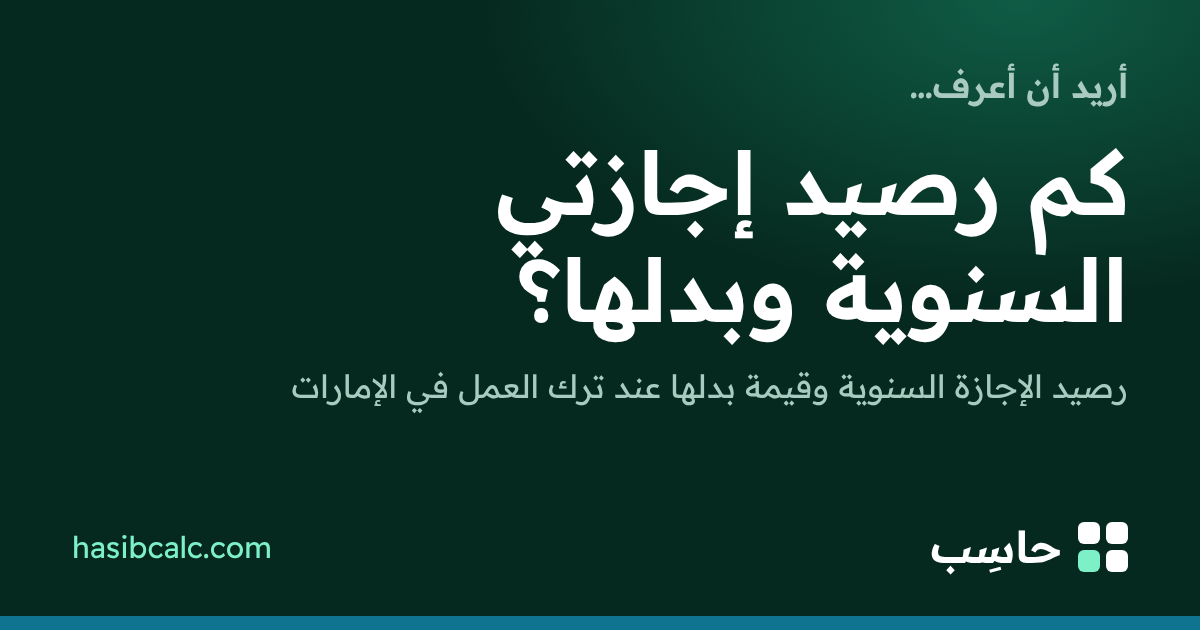
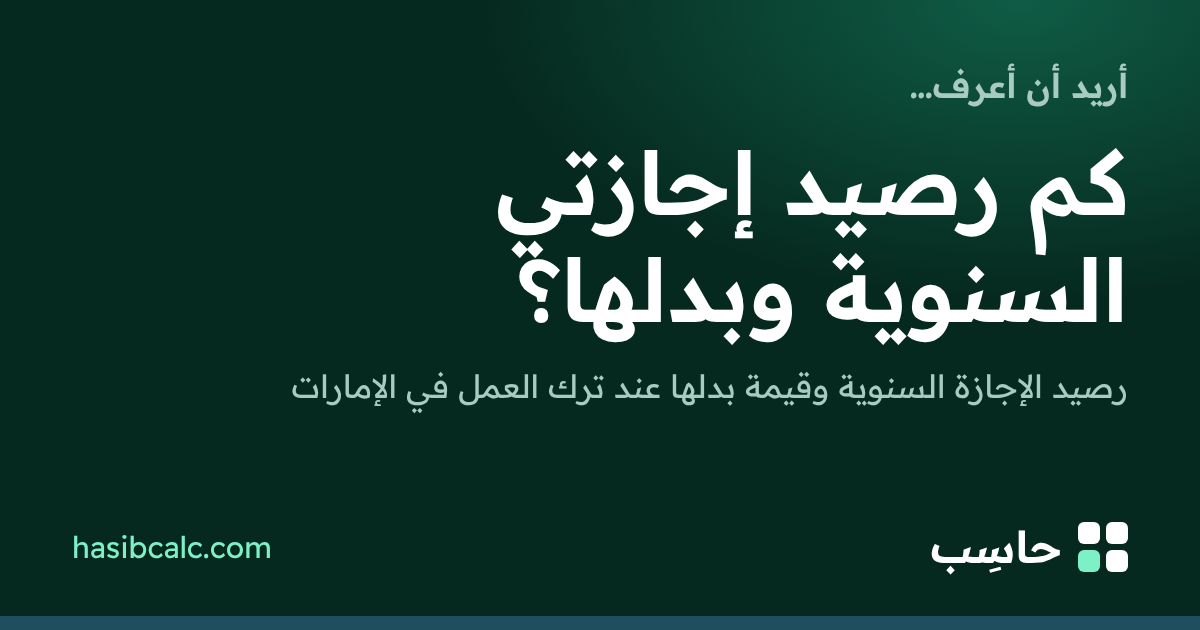
حاسبة «مستحقات ترك العمل» (نهاية الخدمة وبدل الإجازة)، وهوية بصرية جديدة «دفتر الحسابات»
Claude-Session: https://claude.ai/code/session_01KKyL8svfUUTjcLXAGNStGe

Changed region(s): [[0.0, 0.9651, 1.0, 1.0]]

diff --git a/src/data/calculators.ts b/src/data/calculators.ts
@@ -27,13 +27,13 @@ export const CALCULATORS: CalculatorMeta[] = [
     question: 'كم مكافأة نهاية خدمتي؟',
     short: 'نهاية الخدمة',
     blurb: '21 يوماً ثم 30 يوماً عن كل سنة، وفق المادة 51',
-    tone: '#0f6b52',
+    tone: '#8a2f1a',
     sample: '49,194',
     seoTitle: 'حساب نهاية الخدمة في القطاع الخاص بالإمارات: حاسبة المكافأة 2026',
     description: 'احسب مكافأة نهاية الخدمة في القطاع الخاص بالإمارات وفق المادة 51: 21 يوماً عن أول 5 سنوات و30 يوماً بعدها على الراتب الأساسي، مع مثال وجدول جاهز.',
     categories: ['money'],
     terms: ['نهاية الخدمة', 'مكافأة', 'المكافأة', 'استقالة', 'قانون العمل', 'الإمارات', 'راتب أساسي', 'gratuity'],
-    related: ['annual-leave', 'loan', 'zakat', 'percentage'],
+    related: ['exit-dues', 'annual-leave', 'loan', 'zakat'],
     updated: '2026-10-28',
   },
   {
@@ -41,21 +41,35 @@ export const CALCULATORS: CalculatorMeta[] = [
     question: 'كم رصيد إجازتي السنوية وبدلها؟',
     short: 'بدل الإجازة',
     blurb: 'رصيد الإجازة السنوية وقيمة بدلها عند ترك العمل في الإمارات',
-    tone: '#0e7490',
+    tone: '#1f4e5f',
     sample: '8,000',
     seoTitle: 'حاسبة الإجازة السنوية وبدلها في الإمارات (القطاع الخاص)',
     description: 'احسب رصيد إجازتك السنوية وقيمة بدل الأيام غير المستخدمة عند ترك العمل وفق قانون العمل الإماراتي: 30 يوماً في السنة، ويومان عن كل شهر في السنة الأولى، على الراتب الأساسي.',
     categories: ['money'],
     terms: ['الإجازة السنوية', 'بدل الإجازة', 'رصيد الإجازة', 'إجازة', 'قانون العمل', 'الإمارات', 'نهاية الخدمة', 'استقالة', 'leave salary'],
-    related: ['end-of-service', 'salary-uae', 'days-between', 'gosi'],
+    related: ['exit-dues', 'end-of-service', 'salary-uae', 'gosi'],
     updated: '2026-10-25',
+  },
+  {
+    slug: 'exit-dues',
+    question: 'كم مستحقاتي كاملة عند ترك العمل؟',
+    short: 'مستحقات ترك العمل',
+    blurb: 'مكافأة نهاية الخدمة وبدل الإجازة معاً في رقم واحد',
+    tone: '#2b3a67',
+    sample: '60,043',
+    seoTitle: 'حاسبة مستحقات ترك العمل في الإمارات: نهاية الخدمة وبدل الإجازة',
+    description: 'احسب مستحقاتك عند ترك العمل في القطاع الخاص بالإمارات: مكافأة نهاية الخدمة وبدل الإجازة السنوية غير المستخدمة معاً على الراتب الأساسي، بأمثلة ومصادر رسمية.',
+    categories: ['money'],
+    terms: ['مستحقات', 'ترك العمل', 'استقالة', 'نهاية الخدمة', 'بدل الإجازة', 'تصفية', 'مخالصة', 'قانون العمل', 'الإمارات', 'final settlement'],
+    related: ['end-of-service', 'annual-leave', 'salary-uae', 'days-between'],
+    updated: '2026-11-04',
   },
   {
     slug: 'vat',
     question: 'كم الضريبة على هذا المبلغ؟',
     short: 'ضريبة القيمة المضافة',
     blurb: 'أضف 5% إلى السعر أو استخرجها منه',
-    tone: '#4b4bd6',
+    tone: '#6b4a14',
     sample: '50.00',
     seoTitle: 'حاسبة ضريبة القيمة المضافة 5%: إضافة واستخراج',
     description: 'أضف ضريبة القيمة المضافة إلى السعر أو استخرجها من سعر شامل، بنسبة 5% الإماراتية أو أي نسبة أخرى، مع شرح الفرق بين الطريقتين.',
@@ -69,7 +83,7 @@ export const CALCULATORS: CalculatorMeta[] = [
     question: 'كم قسطي الشهري؟',
     short: 'القسط الشهري',
     blurb: 'فائدة ثابتة أو متناقصة، مع جدول السداد',
-    tone: '#cf3f20',
+    tone: '#3d4a2a',
     sample: '2,280',
     seoTitle: 'حاسبة القرض والقسط الشهري: الفرق بين الفائدة الثابتة والمتناقصة',
     description: 'احسب القسط الشهري لقرض شخصي أو تمويل سيارة أو عقار، وقارن بين الفائدة الثابتة والمتناقصة، مع جدول توزيع الأصل والفائدة.',
@@ -83,7 +97,7 @@ export const CALCULATORS: CalculatorMeta[] = [
     question: 'كم تساوي النسبة؟',
     short: 'النسبة المئوية',
     blurb: 'نسبة من رقم، ونسبة رقم لآخر، ونسبة التغير',
-    tone: '#2f6fd6',
+    tone: '#6b2d4a',
     sample: '100',
     seoTitle: 'حاسبة النسبة المئوية: نسبة من رقم، ونسبة رقم لآخر، ونسبة التغير',
     description: 'ثلاث حسبات للنسبة المئوية في صفحة واحدة: كم يساوي 40% من 250، وكم تمثل 40 من 250، ونسبة الزيادة أو النقص بين قيمتين.',
@@ -96,7 +110,7 @@ export const CALCULATORS: CalculatorMeta[] = [
     question: 'كم السعر بعد الخصم؟',
     short: 'الخصم',
     blurb: 'السعر النهائي بعد خصم وخصم إضافي',
-    tone: '#c2410c',
+    tone: '#2b3a67',
     sample: '251.37',
     seoTitle: 'حاسبة الخصم والتخفيض: كم السعر بعد الخصم؟ ونسبة التخفيض الحقيقية',
     description: 'اعرف السعر النهائي بعد الخصم، وكم توفّر، ونسبة الخصم الفعلية عند وجود خصم إضافي فوق الخصم الأول.',
@@ -110,7 +124,7 @@ export const CALCULATORS: CalculatorMeta[] = [
     question: 'كم عمري بالضبط؟',
     short: 'العمر',
     blurb: 'بالسنة والشهر واليوم، والأيام لعيد ميلادك',
-    tone: '#7a4bd6',
+    tone: '#7a3e10',
     sample: '31',
     seoTitle: 'حاسبة العمر: كم عمري بالسنوات والأشهر والأيام؟',
     description: 'احسب عمرك بالضبط بالسنوات والأشهر والأيام، وعدد الأيام التي عشتها، وكم بقي على عيد ميلادك القادم.',
@@ -124,7 +138,7 @@ export const CALCULATORS: CalculatorMeta[] = [
     question: 'هل وزني طبيعي؟',
     short: 'مؤشر كتلة الجسم',
     blurb: 'مؤشر كتلة الجسم ونطاق الوزن لطولك',
-    tone: '#c7305f',
+    tone: '#8a2f1a',
     sample: '24.5',
     seoTitle: 'حاسبة مؤشر كتلة الجسم BMI للبالغين',
     description: 'احسب مؤشر كتلة الجسم من وزنك وطولك، واعرف تصنيفه للبالغين ونطاق الوزن الموافق للنطاق الطبيعي لطولك.',
@@ -137,7 +151,7 @@ export const CALCULATORS: CalculatorMeta[] = [
     question: 'كم زكاة مالي؟',
     short: 'زكاة المال',
     blurb: 'ربع العشر بعد خصم الديون وحساب النصاب',
-    tone: '#a86600',
+    tone: '#1f4e5f',
     sample: '1,875',
     seoTitle: 'حاسبة زكاة المال: كم زكاتي ونصاب الذهب اليوم؟',
     description: 'احسب زكاة المال على النقد والمدخرات والاستثمارات بعد خصم الديون، مع طريقة حساب زكاة المال خطوة بخطوة: النصاب بسعر الذهب ثم ربع العشر 2.5%.',
@@ -151,7 +165,7 @@ export const CALCULATORS: CalculatorMeta[] = [
     question: 'كم التاريخ بالهجري؟',
     short: 'تحويل التاريخ',
     blurb: 'من الميلادي إلى الهجري وبالعكس، بتقويم أم القرى',
-    tone: '#0e7490',
+    tone: '#6b4a14',
     sample: '1448',
     seoTitle: `التاريخ الهجري اليوم وتحويل التاريخ: السنة الهجرية ${HIJRI_YEAR_NOW}`,
     description: `كم التاريخ الهجري اليوم؟ السنة الهجرية الحالية ${HIJRI_YEAR_NOW} هـ. حوّل أي تاريخ من الميلادي إلى الهجري أو من الهجري إلى الميلادي بتقويم أم القرى، مع اسم اليوم وعدد أيام الشهر.`,
@@ -165,7 +179,7 @@ export const CALCULATORS: CalculatorMeta[] = [
     question: 'كم عمري بالهجري؟',
     short: 'العمر بالهجري',
     blurb: 'عمرك بالسنين والأشهر الهجرية، وتاريخ ميلادك الهجري',
-    tone: '#7c3aed',
+    tone: '#3d4a2a',
     sample: '32',
     seoTitle: 'حساب العمر بالهجري: كم عمري بالتقويم الهجري؟',
     description: 'احسب عمرك بالسنوات والأشهر والأيام الهجرية بتقويم أم القرى، من تاريخ ميلادك الميلادي أو الهجري، مع تاريخ ميلادك بالهجري وموعد عيد ميلادك الهجري القادم.',
@@ -179,7 +193,7 @@ export const CALCULATORS: CalculatorMeta[] = [
     question: 'كم باقي على الراتب؟',
     short: 'كم باقي على الراتب',
     blurb: 'عدّاد أيام الراتب، مع نقله إذا وافق عطلة',
-    tone: '#15803d',
+    tone: '#6b2d4a',
     sample: '2',
     seoTitle: 'كم باقي على الراتب؟ عدّاد موعد نزول الراتب',
     description: 'كم يوماً باقي على راتبك؟ اختر يوم الراتب ونحسب الموعد القادم، ونقدّمه إذا وافق عطلة نهاية الأسبوع، مع مواعيد الرواتب للأشهر الاثني عشر القادمة.',
@@ -193,7 +207,7 @@ export const CALCULATORS: CalculatorMeta[] = [
     question: 'كم باقي على الراتب في السعودية؟',
     short: 'راتب السعودية',
     blurb: 'يوم 27 للقطاع الحكومي، ويُقدَّم للخميس إذا وافق العطلة',
-    tone: '#166534',
+    tone: '#2b3a67',
     sample: '27',
     seoTitle: 'كم باقي على الراتب في السعودية؟ عدّاد رواتب 27',
     description: 'كم يوماً باقي على راتب يوم 27 في السعودية؟ عدّاد بتاريخ اليوم، مع موعد الراتب إذا وافق الجمعة أو السبت، ومواعيد رواتب الأشهر القادمة.',
@@ -207,7 +221,7 @@ export const CALCULATORS: CalculatorMeta[] = [
     question: 'كم باقي على الراتب في الإمارات؟',
     short: 'راتب الإمارات',
     blurb: 'موعد الأجر في القطاع الخاص حسب نظام حماية الأجور',
-    tone: '#0f766e',
+    tone: '#7a3e10',
     sample: '1',
     seoTitle: 'كم باقي على الراتب في الإمارات؟ موعد الراتب ونظام حماية الأجور',
     description: 'كم يوماً باقي على راتبك في الإمارات؟ في القطاع الخاص يجب أن يُصرف الأجر في موعد أقصاه اليوم الأول من الشهر التالي منذ يونيو 2026. اكتب يوم راتبك واعرف الأيام الباقية.',
@@ -221,7 +235,7 @@ export const CALCULATORS: CalculatorMeta[] = [
     question: 'كم يوماً بين تاريخين؟',
     short: 'الأيام بين تاريخين',
     blurb: 'الأيام والأسابيع والأشهر، وأيام العمل',
-    tone: '#475569',
+    tone: '#8a2f1a',
     sample: '365',
     seoTitle: 'كم يوم بين تاريخين؟ حساب عدد الأيام والأسابيع وأيام العمل',
     description: 'كم يوماً بين تاريخين؟ اكتب التاريخين فتظهر الأيام والأسابيع والأشهر وأيام العمل فوراً، مع التاريخ بعد 30 أو 90 يوماً، وكم سنة في 36 شهراً.',
@@ -235,7 +249,7 @@ export const CALCULATORS: CalculatorMeta[] = [
     question: 'متى موعد ولادتي؟',
     short: 'موعد الولادة',
     blurb: 'موعد الولادة المتوقع وعمر الحمل بالأسابيع',
-    tone: '#a21caf',
+    tone: '#1f4e5f',
     sample: '280',
     seoTitle: 'حاسبة الحمل بالأسابيع والأشهر وموعد الولادة المتوقع',
     description: 'احسبي موعد الولادة المتوقع من أول يوم في آخر دورة، وعمر الحمل بالأسابيع والأيام، والثلث الذي أنتِ فيه، مع مراعاة طول الدورة.',
@@ -249,7 +263,7 @@ export const CALCULATORS: CalculatorMeta[] = [
     question: 'متى موعد التبويض؟',
     short: 'حاسبة التبويض',
     blurb: 'يوم التبويض وأيام الخصوبة وموعد الدورة القادمة',
-    tone: '#be185d',
+    tone: '#6b4a14',
     sample: '14',
     seoTitle: 'حاسبة التبويض وأيام الخصوبة وموعد الدورة القادمة',
     description: 'احسبي يوم التبويض المتوقع وأيام الخصوبة وموعد الدورة الشهرية القادمة من تاريخ آخر دورة وطولها، مع جدول للأشهر الثلاثة القادمة.',
@@ -263,7 +277,7 @@ export const CALCULATORS: CalculatorMeta[] = [
     question: 'كم سعرة يحتاج جسمي يومياً؟',
     short: 'السعرات اليومية',
     blurb: 'احتياجك اليومي بحسب عمرك ووزنك ونشاطك',
-    tone: '#15803d',
+    tone: '#3d4a2a',
     sample: '2,740',
     seoTitle: 'حاسبة السعرات الحرارية اليومية للبالغين',
     description: 'احسب عدد السعرات التي يحتاجها جسمك يومياً للمحافظة على وزنك بمعادلة ميفلين سان جيور، بحسب جنسك وعمرك ووزنك وطولك ومستوى نشاطك.',
@@ -277,7 +291,7 @@ export const CALCULATORS: CalculatorMeta[] = [
     question: 'كم يُخصم من راتبي للتأمينات؟',
     short: 'التأمينات الاجتماعية',
     blurb: 'الخصم من راتبك وراتبك الصافي، بالنظام السابق والجديد',
-    tone: '#3f6212',
+    tone: '#6b2d4a',
     sample: '1,075',
     seoTitle: 'حاسبة الراتب الصافي بعد خصم التأمينات GOSI 2026',
     description: 'احسب راتبك الصافي بعد خصم التأمينات الاجتماعية في السعودية، وكم يُخصم منك وكم يدفع صاحب العمل، بالنظام السابق أو الجديد، للسعودي وغير السعودي.',
@@ -291,7 +305,7 @@ export const CALCULATORS: CalculatorMeta[] = [
     question: 'كم معدلي الجامعي؟',
     short: 'المعدل الجامعي',
     blurb: 'المعدل الفصلي والتراكمي من 5 أو من 4',
-    tone: '#4338ca',
+    tone: '#2b3a67',
     sample: '4.38',
     seoTitle: 'حساب المعدل التراكمي والفصلي للجامعة من 5 ومن 4',
     description: 'احسب معدلك الفصلي والتراكمي في الجامعة بالنظام السعودي من 5 أو من 4، أو بنظام 4 بالسالب في الإمارات، من تقديرات المواد وساعاتها ومعدلك السابق.',
@@ -305,7 +319,7 @@ export const CALCULATORS: CalculatorMeta[] = [
     question: 'كم معدل أحتاج لأرفع معدلي التراكمي؟',
     short: 'المعدل المطلوب',
     blurb: 'المعدل الفصلي اللازم للوصول إلى معدلك المستهدف',
-    tone: '#6d28d9',
+    tone: '#7a3e10',
     sample: '4.60',
     seoTitle: 'حاسبة المعدل المطلوب: كم أحتاج في الفصل القادم لأرفع معدلي التراكمي؟',
     description: 'اكتب معدلك التراكمي وساعاتك والمعدل الذي تريده، ونحسب المعدل الفصلي الذي تحتاجه في الفصل القادم، وهل الهدف ممكن، وأعلى معدل تصل إليه عند التخرج، من 5 أو من 4.',

diff --git a/src/styles/global.css b/src/styles/global.css
@@ -544,3 +544,47 @@ select.in.sel { appearance: none; cursor: pointer; padding: 0 12px 0 30px; font-
 /* add to calendar */
 .addcal { display: flex; flex-wrap: wrap; align-items: center; gap: 8px; margin: 0 0 24px; max-width: var(--measure); }
 .addcal .ac-l { font-size: .88rem; color: var(--soft); }
+
+
+/* ===== هوية «دفتر الحسابات» (نوفمبر 2026) =====
+   ورق كريمي وحبر داكن وطابع أحمر، وخطوط دفتر على خلفية الترويسة، وبطاقات بحواف حادة وظل مطبوع.
+   تُلغى بحذف هذه الكتلة كلها. */
+:root {
+  --deep: #17130e; --em: #241d14; --em-2: #3a2e1c;
+  --mint: #f2c35b; --on-deep: #fbf6ea; --on-deep-soft: #cfc3a6;
+  --paper: #f4eee0; --card: #fffcf3; --ink: #1c1812; --soft: #5a5143;
+  --line: #ded2b8; --well: #efe5cf;
+  --accent: #8f2a14; --accent-bg: #f6e3d6; --warn: #8a4b0a; --warn-bg: #f9ecd2;
+  --r-sm: 6px; --r-md: 8px; --r-lg: 10px; --r-xl: 12px;
+  --shadow-card: 3px 3px 0 rgba(28, 24, 18, .9);
+  --shadow-float: 6px 6px 0 #f2c35b;
+}
+@media (prefers-color-scheme: dark) {
+  :root {
+    --paper: #14110c; --card: #1e1a13; --ink: #f1e8d4; --soft: #b5a88c; --line: #3a3224; --well: #181510;
+    --accent: #f2c35b; --accent-bg: #3a2e14; --warn: #f0b46b; --warn-bg: #2f2010;
+    --shadow-card: 3px 3px 0 rgba(0, 0, 0, .8); --shadow-float: 6px 6px 0 #8f2a14;
+  }
+}
+.stage { background:
+  linear-gradient(90deg, transparent calc(100% - 64px), rgba(190, 52, 28, .55) calc(100% - 64px) calc(100% - 62px), transparent calc(100% - 62px)),
+  repeating-linear-gradient(180deg, transparent 0 31px, rgba(242, 195, 91, .09) 31px 32px), var(--deep); }
+.stage::after { display: none; }
+.machine { border: 2px solid var(--ink); }
+.machine .exhibit { border-radius: 0 0 10px 10px; }
+.tile { border: 2px solid var(--ink); box-shadow: 3px 3px 0 var(--ink); border-radius: 10px; }
+.tile:hover { transform: translate(-2px, -2px); box-shadow: 5px 5px 0 var(--ink); }
+.tile::before, .tile::after { display: none; }
+.odo i { background: rgba(255, 252, 243, .1); border-bottom: 2px solid rgba(242, 195, 91, .55); border-radius: .08em; }
+.odo i.c { background: none; border: 0; }
+.machine-top b::before { background: #be341c; border-radius: 2px; }
+.logo { letter-spacing: .02em; }
+.card, .side-card, .article.card { border: 1.5px solid var(--ink); border-radius: 10px; box-shadow: 3px 3px 0 var(--line); }
+.calc-title .seal { border-color: rgba(242, 195, 91, .6); background: rgba(242, 195, 91, .08); border-radius: 4px; transform: rotate(-1.2deg); }
+.legend .b i, .tl-b, .dlegend span + span i, .split .sb { background: #c94a2b; }
+.legend .a i { background: var(--em-2); }
+@media (max-width: 700px) {
+  .stage { background: repeating-linear-gradient(180deg, transparent 0 31px, rgba(242, 195, 91, .09) 31px 32px), var(--deep); }
+  :root { --shadow-float: 3px 3px 0 #f2c35b; }
+  .machine { margin-inline-end: 4px; }
+}

diff --git a/src/lib/calc/exit-dues.ts b/src/lib/calc/exit-dues.ts
@@ -1,0 +1,29 @@
+import { type CalcResult, fail, ok } from './core';
+import { type Gratuity, calcGratuity } from './gratuity';
+import { type Leave, calcLeave } from './annual-leave';
+
+/**
+ * UAE private-sector dues on leaving a job: end-of-service gratuity + cash value of unused annual leave.
+ * Both parts are computed by the existing calculators, so the rules and their sources are exactly theirs:
+ *  - gratuity: Federal Decree-Law No. 33 of 2021, Article 51 (u.ae);
+ *  - annual leave: Article 29 (u.ae), 30 days a year, paid on the basic wage, daily wage = basic ÷ 30.
+ * Not included on purpose: last month's wage, notice pay, tickets and overtime, which depend on the contract.
+ */
+export type DuesInput = {
+  basicSalary: number | null;
+  startDate: string;
+  endDate: string;
+  unpaidAbsenceDays: number | null;
+  takenDays: number | null;
+};
+export type Dues = { gratuity: Gratuity; leave: Leave; total: number; gratuityShare: number };
+
+export function calcDues(input: DuesInput): CalcResult<Dues> {
+  const g = calcGratuity({ basicSalary: input.basicSalary, startDate: input.startDate, endDate: input.endDate, unpaidAbsenceDays: input.unpaidAbsenceDays ?? 0 });
+  if (!g.ok) return fail(g.errors);
+  const l = calcLeave({ salary: input.basicSalary, startDate: input.startDate, endDate: input.endDate, annualDays: 30, takenDays: input.takenDays ?? 0, divisor: '30' });
+  if (!l.ok) return fail(l.errors.map((e) => (e.field === 'salary' ? { ...e, field: 'basicSalary' } : e)));
+  const total = Math.round((g.value.total + l.value.amount) * 100) / 100;
+  const gratuityShare = total > 0 ? g.value.total / total : 0;
+  return ok({ gratuity: g.value, leave: l.value, total, gratuityShare });
+}

diff --git a/src/lib/views-extra.ts b/src/lib/views-extra.ts
@@ -297,3 +297,25 @@ export function loanWhatIf(input: { principal: number | null; annualRatePercent:
   }
   return out;
 }
+
+import type { Dues } from './calc/exit-dues';
+export function duesView(d: Dues): View {
+  const g = d.gratuity;
+  const l = d.leave;
+  return {
+    label: 'مستحقاتك عند ترك العمل تقريباً',
+    value: d.total,
+    decimals: 2,
+    unit: 'درهم',
+    sentence: g.eligible
+      ? `مكافأة نهاية الخدمة وبدل الإجازة معاً، عن خدمة ${days(g.serviceDays)}.`
+      : `لم تكمل سنة خدمة فلا مكافأة، وبدل الإجازة وحده ${l.eligible ? 'مستحق' : 'غير مستحق بعد (أقل من 6 أشهر)'}.`,
+    rows: [
+      ['مكافأة نهاية الخدمة', `${moneyFmt(g.total)} درهم`],
+      [`بدل الإجازة (${fmt1(l.remaining)} يوماً × ${moneyFmt(l.dailyWage)})`, `${moneyFmt(l.amount)} درهم`],
+      ['الأجر اليومي (الأساسي ÷ 30)', `${moneyFmt(g.dailyWage)} درهم`],
+      ['رصيد الإجازة المتبقي', leaveDays(l.remaining)],
+    ],
+    whatif: l.remaining > 0 ? [`لو لم يبقَ لك رصيد إجازة، لانخفضت المستحقات بمقدار ${moneyFmt(l.amount)} درهم.`] : undefined,
+  };
+}

diff --git a/src/lib/exhibits-extra.ts b/src/lib/exhibits-extra.ts
@@ -272,3 +272,14 @@ export function salaryShortAnswer(iso: string): string {
   };
   return `<ul>${line(27, 'fri-sat', 'before', 'راتب يوم 27')}${line(1, 'sat-sun', 'none', 'راتب يوم 1 من الشهر')}</ul>`;
 }
+
+import type { Dues } from './calc/exit-dues';
+/** One bar split into the two parts of the dues, with their amounts. */
+export function duesBar(d: Dues | null): string {
+  if (!d || d.total <= 0) return '<p class="hint">لا توجد مستحقات لعرضها بهذه المدخلات.</p>';
+  const gp = Math.round(d.gratuityShare * 1000) / 10;
+  const lp = Math.round((100 - gp) * 10) / 10;
+  const f = (n: number) => n.toLocaleString('en-US', { minimumFractionDigits: 2, maximumFractionDigits: 2 });
+  return `<div class="dues-bar" role="img" aria-label="مكافأة نهاية الخدمة ${gp}% وبدل الإجازة ${lp}% من المستحقات"><span class="g" style="flex:${Math.max(gp, 0.5)}"></span><span class="l" style="flex:${Math.max(lp, 0.5)}"></span></div>
+<ul class="dues-key"><li><i class="g"></i>مكافأة نهاية الخدمة <b class="nums">${f(d.gratuity.total)}</b> <small class="nums">(${gp}%)</small></li><li><i class="l"></i>بدل الإجازة <b class="nums">${f(d.leave.amount)}</b> <small class="nums">(${lp}%)</small></li></ul>`;
+}

diff --git a/tests/new.test.ts b/tests/new.test.ts
@@ -308,3 +308,25 @@ describe('hijri years table', () => {
     expect(hijriYearsTable(1343, 1450).match(/<tr>/g)!.length).toBe(109);
   });
 });
+
+import { calcDues } from '../src/lib/calc/exit-dues';
+describe('exit dues', () => {
+  test('7 years at 8,000 with 150 leave days taken: gratuity + 60 days of leave', () => {
+    const d = val(calcDues({ basicSalary: 8000, startDate: '2019-03-01', endDate: '2026-02-28', unpaidAbsenceDays: 0, takenDays: 150 }));
+    expect(d.leave.remaining).toBe(60);
+    expect(d.leave.amount).toBe(16000);
+    expect(d.total).toBeCloseTo(d.gratuity.total + 16000, 2);
+    expect(Math.round(d.total * 100) / 100).toBe(60043.84);
+  });
+  test('under a year: no gratuity, leave only', () => {
+    const d = val(calcDues({ basicSalary: 5000, startDate: '2026-01-01', endDate: '2026-09-30', unpaidAbsenceDays: 0, takenDays: 0 }));
+    expect(d.gratuity.total).toBe(0);
+    expect(d.leave.amount).toBe(3000);
+    expect(d.gratuityShare).toBe(0);
+  });
+  test('validation errors name the page fields', () => {
+    const r = calcDues({ basicSalary: null, startDate: '2026-01-01', endDate: '2026-09-30', unpaidAbsenceDays: 0, takenDays: 0 });
+    expect(r.ok).toBe(false);
+    if (!r.ok) expect(r.errors[0].field).toBe('basicSalary');
+  });
+});

diff --git a/scripts/interaction_test.py b/scripts/interaction_test.py
@@ -160,6 +160,14 @@ with sync_playwright() as p:
     pg.fill('#f-annualDays', '20'); pg.wait_for_timeout(300)
     check('annual-leave: under 30 days flagged', pg.locator('#f-annualDays-err').is_visible())
 
+    pg.goto(B + '/exit-dues/?basicSalary=8000&startDate=2019-03-01&endDate=2026-02-28&unpaidAbsenceDays=0&takenDays=150'); pg.wait_for_timeout(500)
+    check('exit-dues: total 60,043.84', val(pg).replace(',', '') == '60043.84', val(pg))
+    check('exit-dues: bar shows two parts', pg.locator('[data-x="bar"] .dues-key li').count() == 2)
+    pg.fill('#f-takenDays', '210'); pg.wait_for_timeout(300)
+    check('exit-dues: no leave left leaves gratuity only', val(pg).replace(',', '') == '44043.84', val(pg))
+    pg.fill('#f-basicSalary', '-5'); pg.wait_for_timeout(300)
+    check('exit-dues: negative salary flagged', pg.locator('#f-basicSalary-err').is_visible())
+
     pg.goto(B + '/gpa/'); pg.wait_for_timeout(500)
     check('gpa: default cumulative 4.24', val(pg) == '4.24', val(pg))
     pg.fill('#f-prevGpa', ''); pg.fill('#f-prevHours', ''); pg.wait_for_timeout(300)

diff --git a/CLAUDE.md b/CLAUDE.md
@@ -82,4 +82,5 @@ node scripts/adsense-audit.mjs          # شروط قبول AdSense: لا نصو
 
 ## السجل
 - سجل العمل اليومي في مشروع claude.ai: `claude/hasib-daily-log.md` (اقرأه قبل البدء، وأضف سطراً في النهاية بعد إعادة قراءته).
-- الحالة المختصرة لآخر تحديث لهذا الملف: 21 حاسبة، 12 دليلاً، 5 تصنيفات (money، shopping، health-age، dates، study)؛ آخر commit عند الكتابة fc23aed (27 أكتوبر 2026).
+- الحالة المختصرة لآخر تحديث لهذا الملف: 22 حاسبة، 12 دليلاً، 5 تصنيفات (money، shopping، health-age، dates، study)؛ آخر commit عند الكتابة fc23aed (27 أكتوبر 2026).
+- **الهوية البصرية (4 نوفمبر 2026، بطلب تركي):** «دفتر الحسابات»: ورق كريمي وحبر داكن وأرقام عدّاد ذهبية وطابع أحمر، وخطوط دفتر على الترويسة، وبطاقات بحواف حادة وظل مطبوع. كلها في آخر `src/styles/global.css` (كتلة «هوية دفتر الحسابات») وألوان البطاقات في `tone`. حذف الكتلة يعيد الهوية الزمردية السابقة. هذا يغلب قواعد التصميم الأقدم في SKILL.md.
